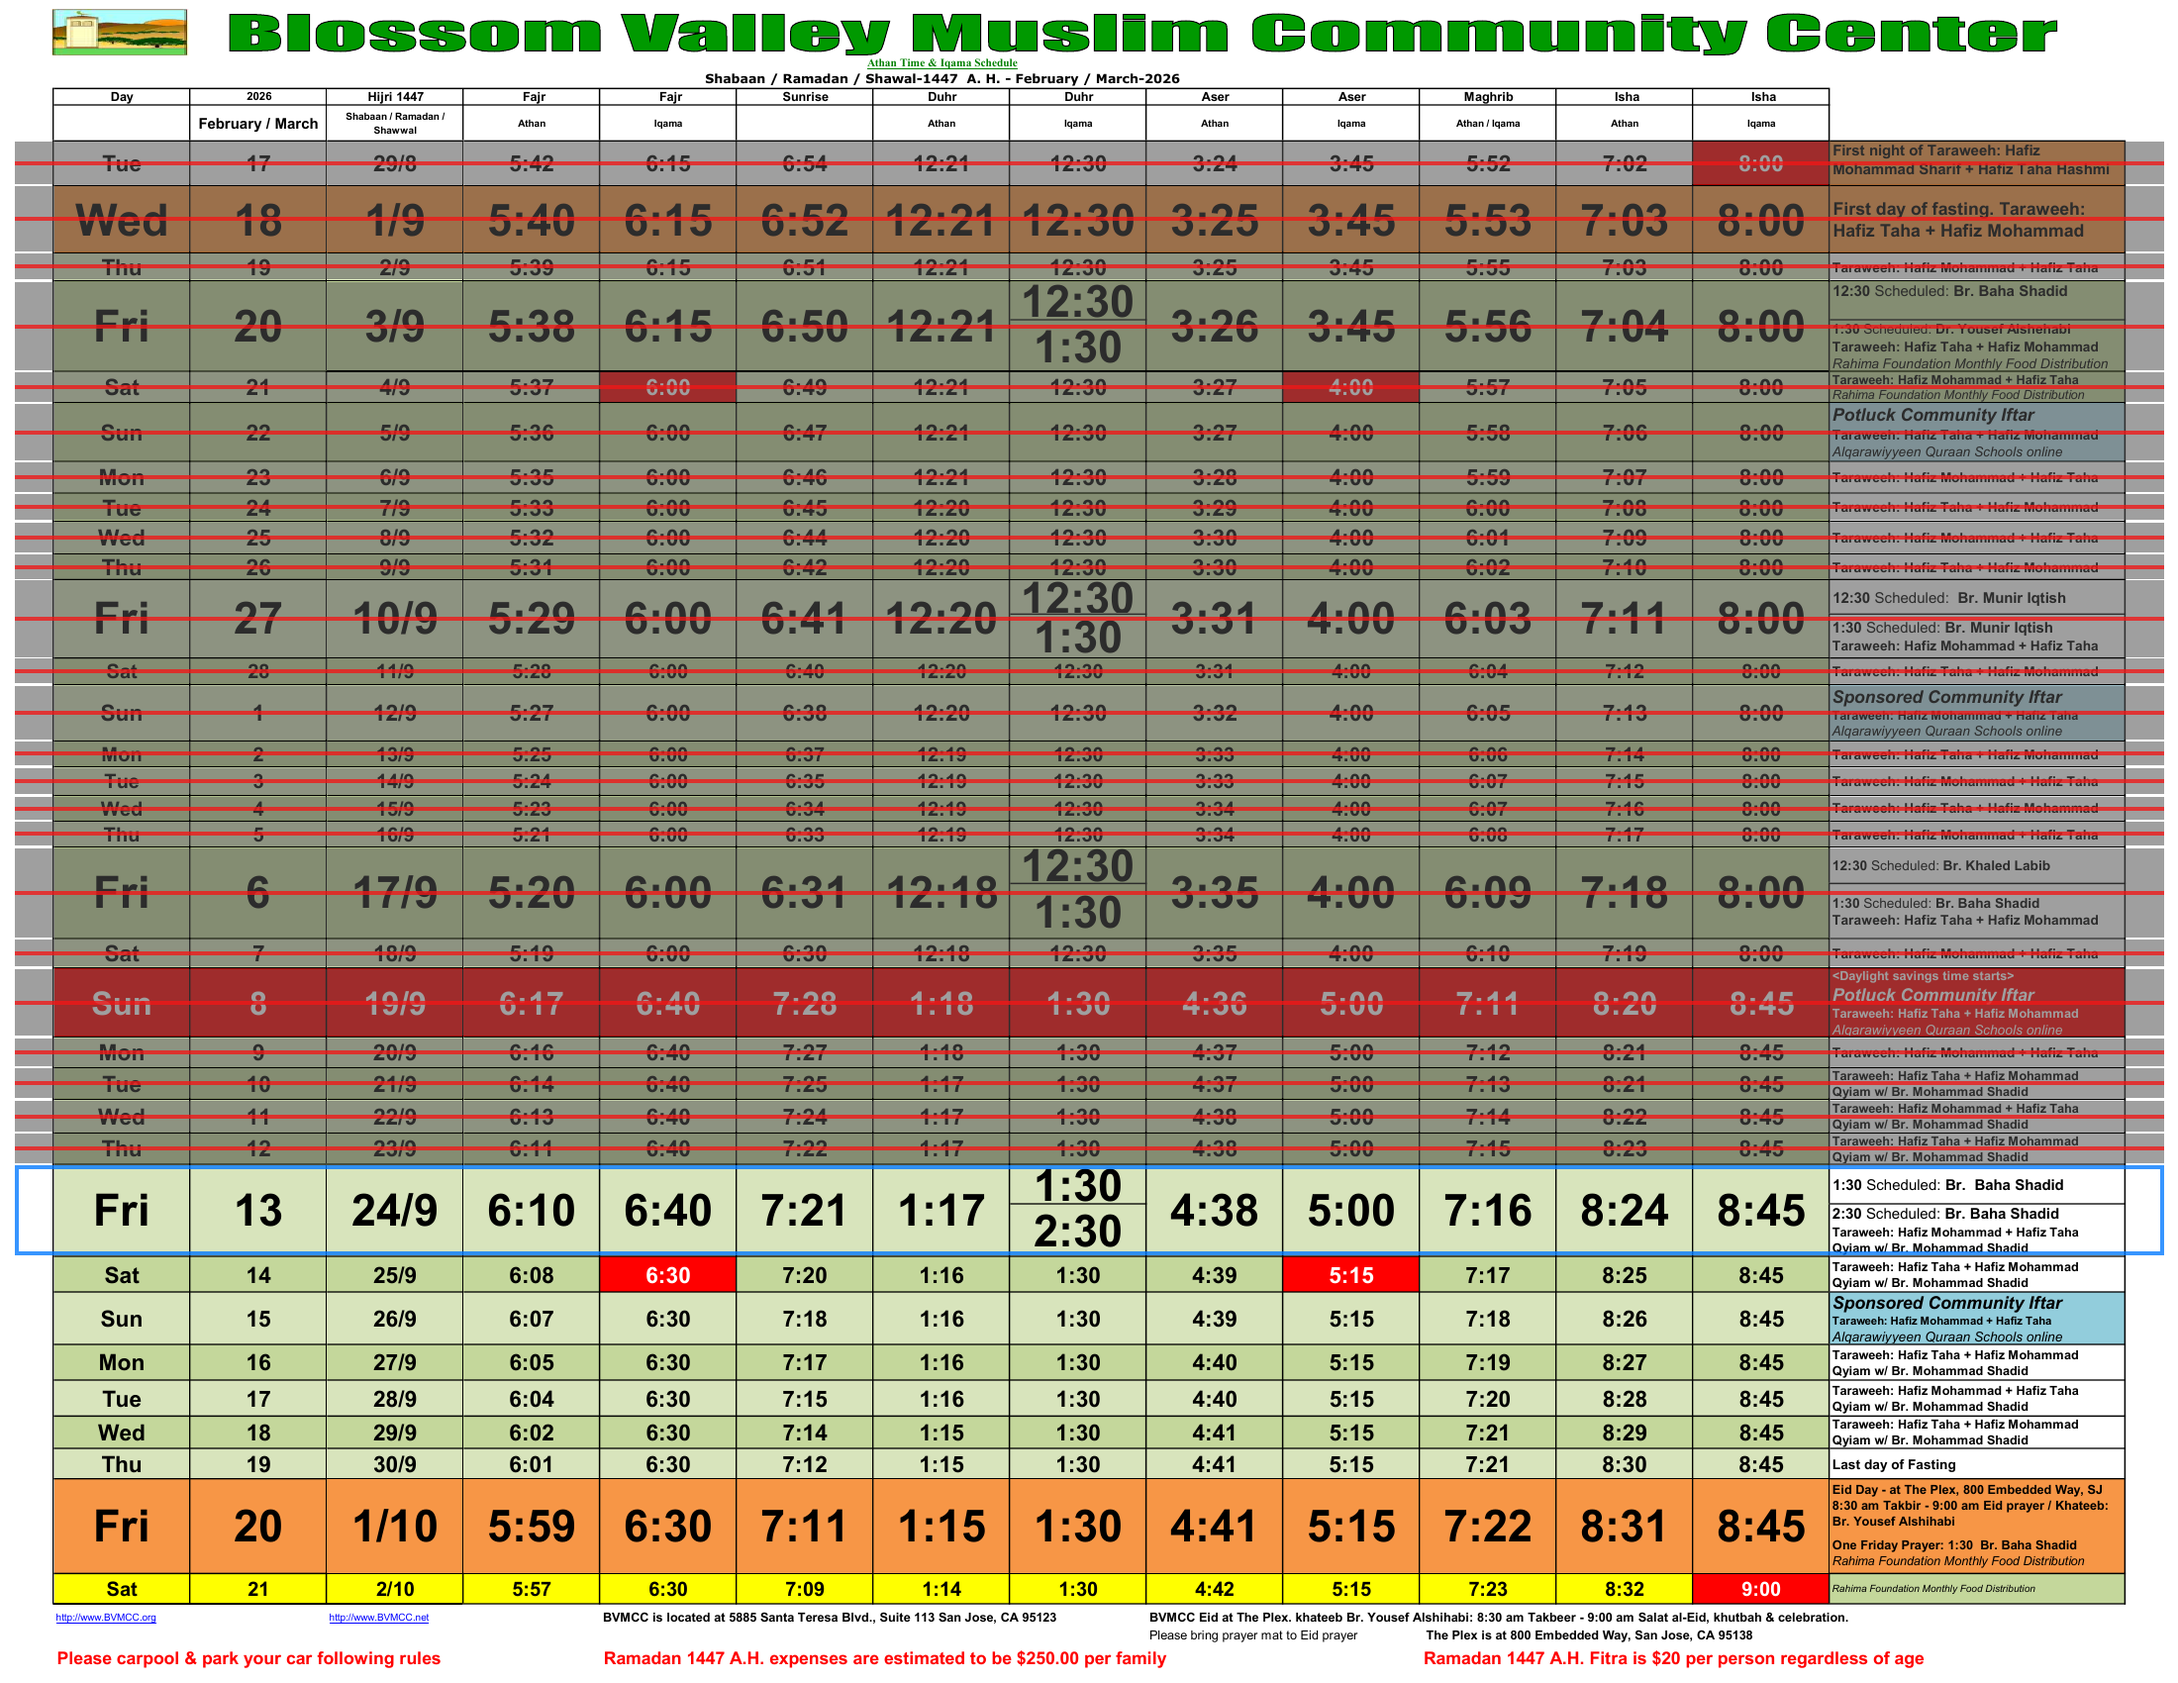
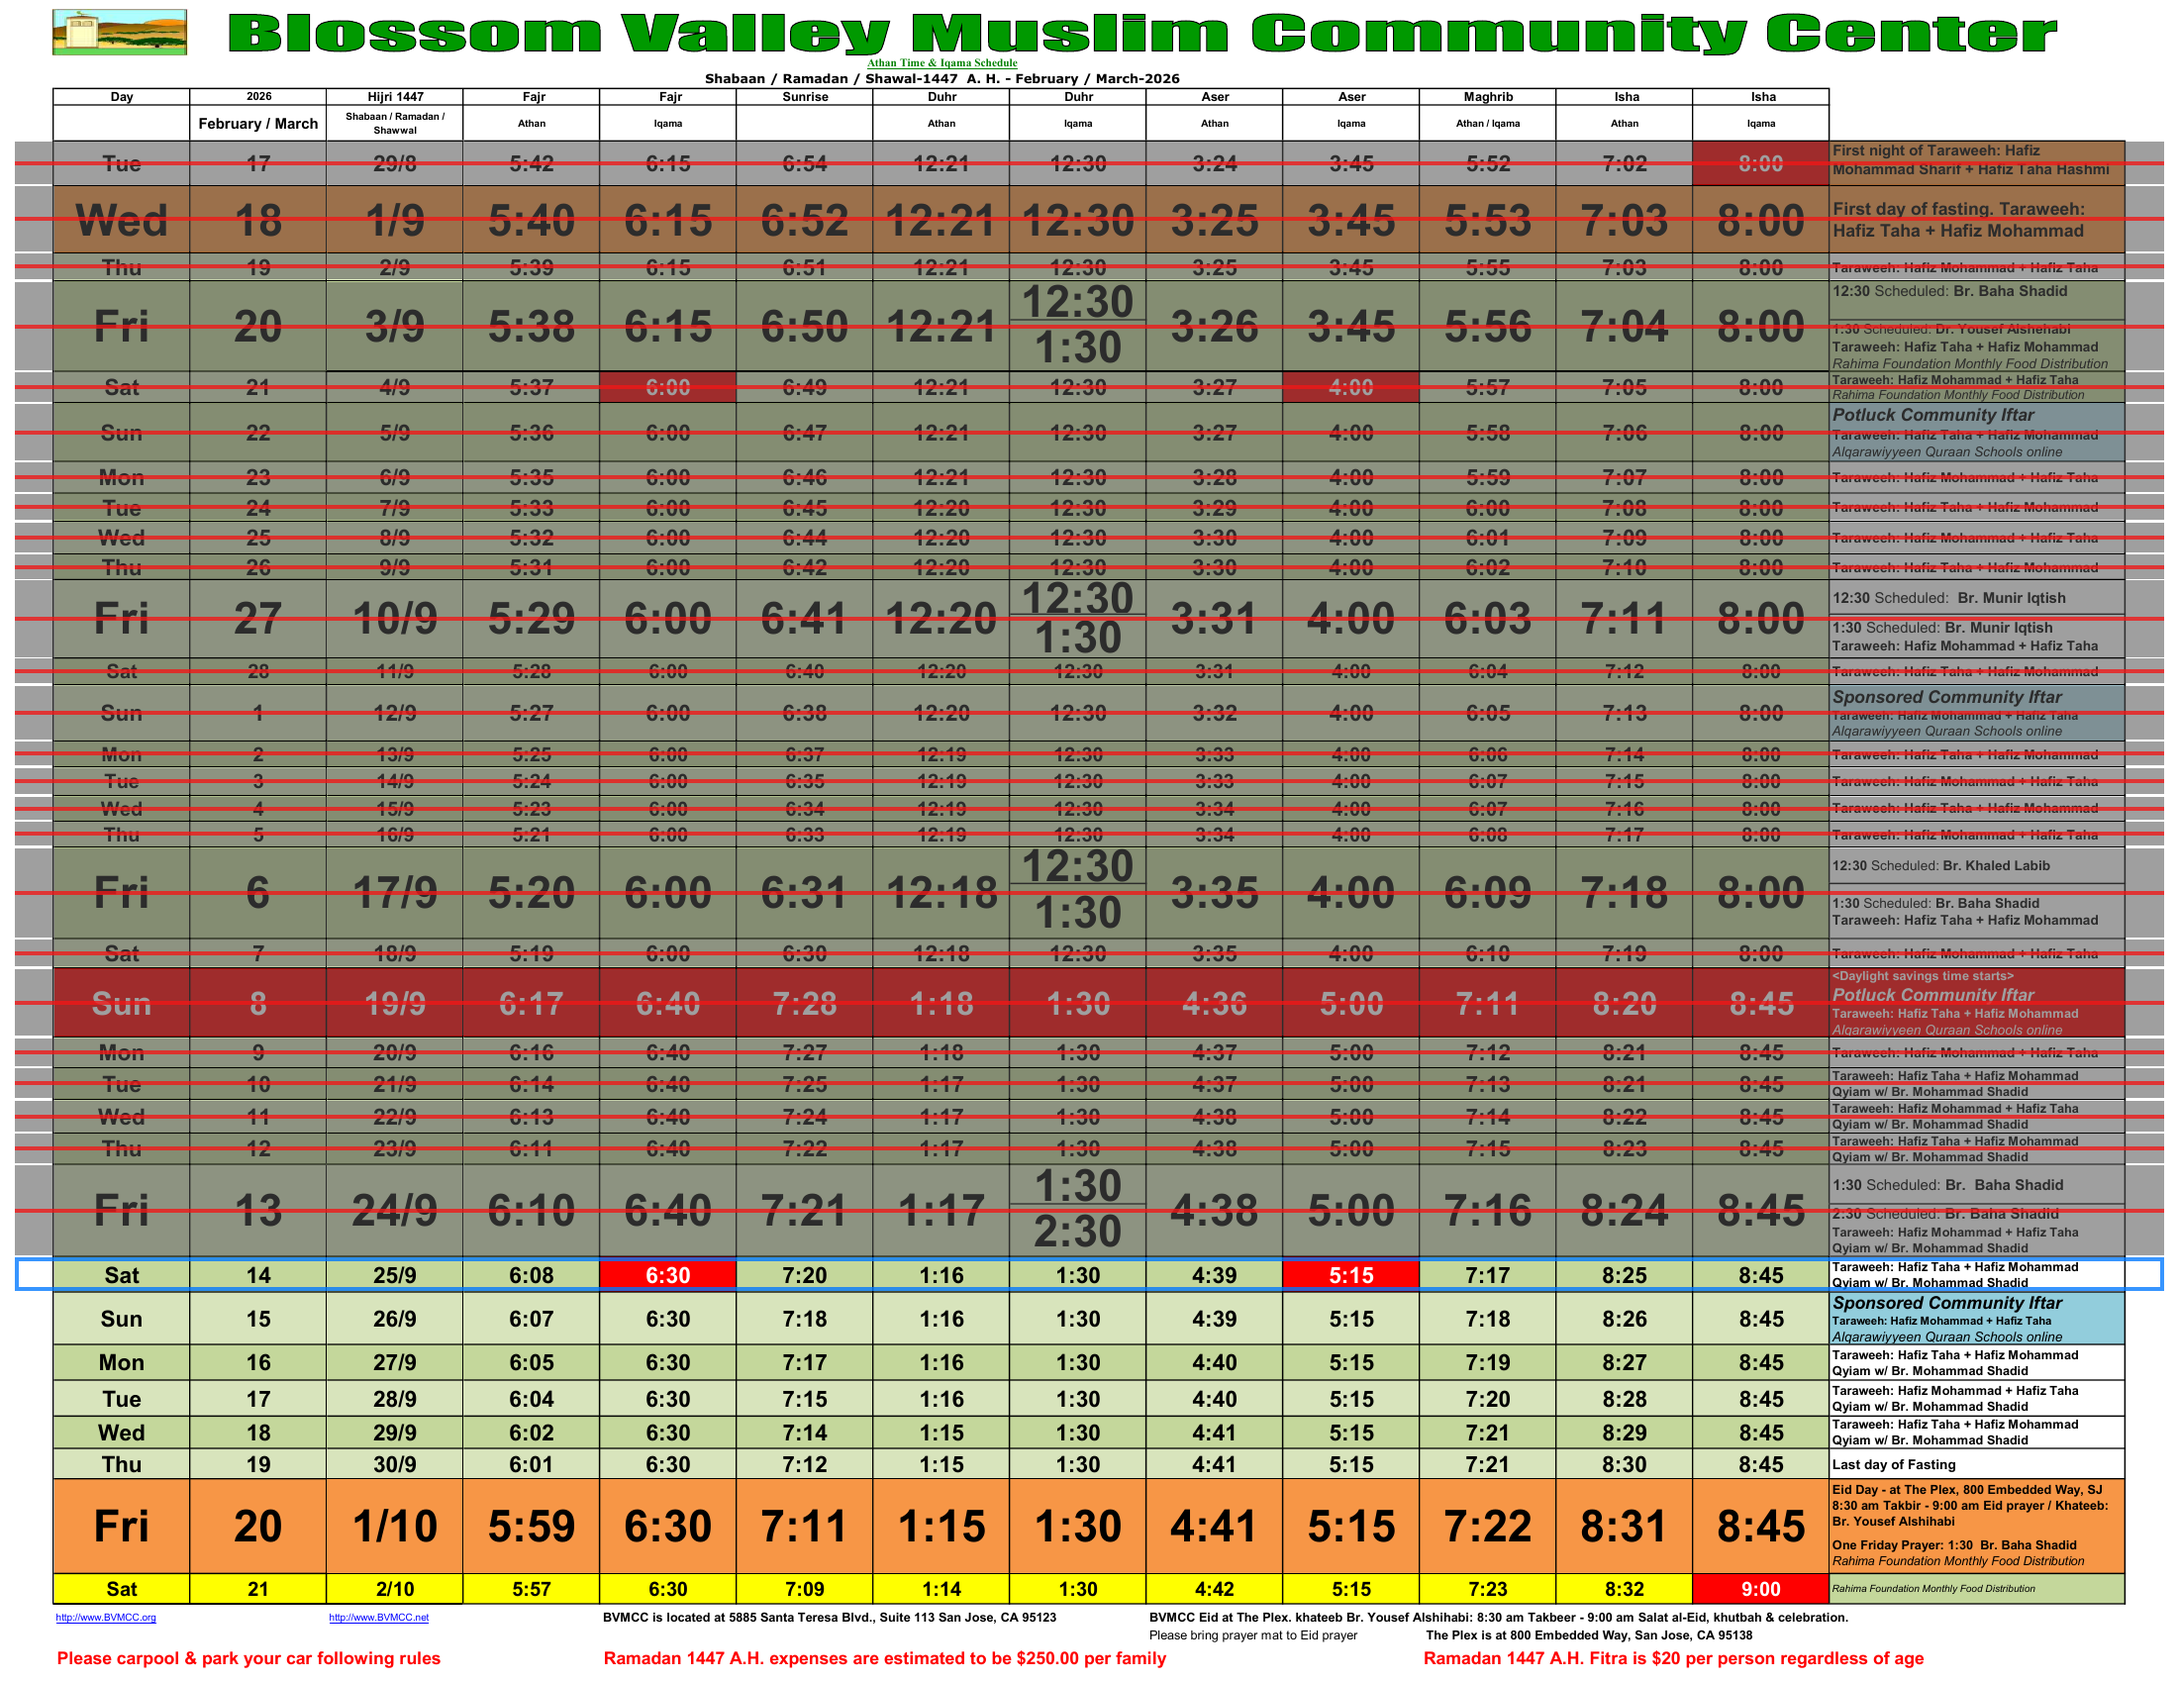
Update schedule for 2026-03-14

Changed region(s): [[0.0, 0.6859, 1.0, 0.7794]]

diff --git a/docs/index.html b/docs/index.html
@@ -55,11 +55,11 @@
 <body>
     <div class="header">
         <h1>BVMCC Ramadan 1447 Schedule</h1>
-        <div class="date">Today: Friday, March 13, 2026</div>
-        <div class="updated">Last updated: Mar 13, 2026 at 08:26 AM</div>
+        <div class="date">Today: Saturday, March 14, 2026</div>
+        <div class="updated">Last updated: Mar 14, 2026 at 08:20 AM</div>
     </div>
     <div class="schedule-container">
-        <img src="schedule.png?v=2026-03-13" alt="Ramadan Schedule">
+        <img src="schedule.png?v=2026-03-14" alt="Ramadan Schedule">
     </div>
 </body>
 </html>
